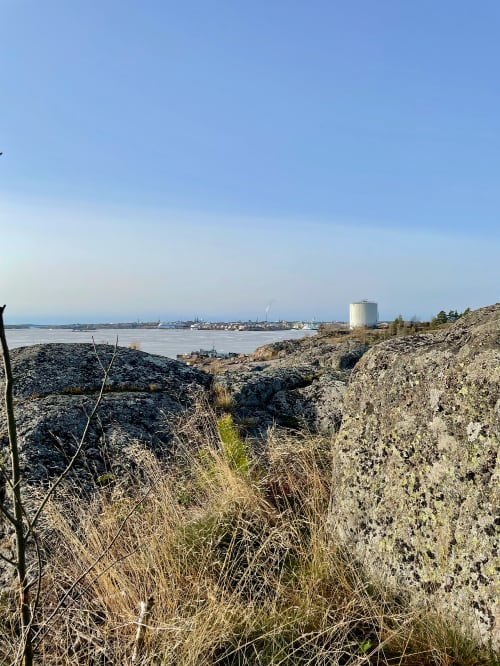
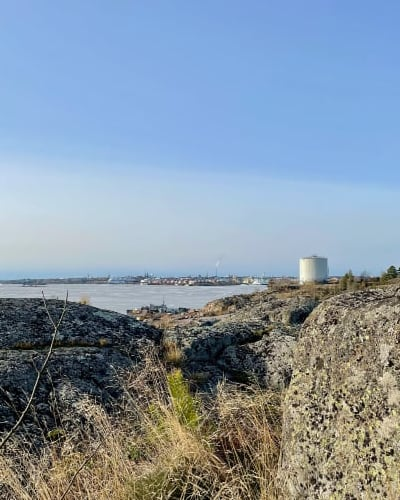
Initial commit

diff --git a/harkka/styles/layout.css b/harkka/styles/layout.css
@@ -97,18 +97,17 @@ nav .active {
 }
 .hero  {
   max-width: 960px;
-  margin: 0 auto 30px;
+  margin: 0 auto 0px;
 }
 
 .herocontainer {
   grid-column: span 1;
-  padding: 10rem 0 0 8rem;
+  padding: 27% 0 0 10%;
 }
 .heroimg {
   grid-column: span 1;
-  padding: 4rem 0 0 4rem;
+  padding: 10% 0 0 10%;
   width: 75%;
-  height: 75%;
   object-fit: cover;
 }
 /* projects */
@@ -317,7 +316,7 @@ main {
   max-width: 60%;
 }
 .projectheading {
-  margin: 5em 0 1em 0;
+  margin: 4em 0 1em 0;
 }
 }
 
@@ -344,10 +343,10 @@ main {
   grid-template-columns: repeat(auto-fill, minmax(270px, 1fr));
 }
 .herocontainer {
-  padding: 3rem 1rem 0 0rem;
+  padding: 10% 5% 0 0rem;
 }
 .heroimg {
-  padding: 2rem 0 0 1rem;
+  padding: 10% 0 0 10%;
   width: 75%;
   object-fit: cover;
 }

diff --git a/harkka/index.html b/harkka/index.html
@@ -16,7 +16,6 @@
     <li><a class="active" href="index.html">Home</a></li>
     <li><a href="projects.html"> Projects</a></li>
     <li><a href="resume.html">Resume</a></li>
-    <li><a href="#about">Contact</a></li>
 </ul>
 
 </nav>
@@ -25,7 +24,7 @@
     <div class="herocontainer">
             <h1>Hello</h1><p>My name is Tommi Hulkkonen. I'm a startup guy (product and business developer) located in Helsinki, Finland. Currently building Aatos Health and AMS Solutions. M.Sc in economics, spending free time practicing coding. </p>
     </div>
-    <div class="right"><img src="images/sailio.jpg" alt="Oil tank" class="heroimg"></div>
+    <div><img src="images/sailio.jpg" alt="Oil tank" class="heroimg"></div>
 </section>
 <section>
 <section class="projectheading">

diff --git a/harkka/projects.html b/harkka/projects.html
@@ -16,7 +16,6 @@
     <li><a href="index.html">Home</a></li>
     <li><a class="active" href="projects.html"> Projects</a></li>
     <li><a href="resume.html">Resume</a></li>
-    <li><a href="#about">Contact</a></li>
 </ul>
 
 </nav>

diff --git a/harkka/resume.html b/harkka/resume.html
@@ -16,7 +16,6 @@
     <li><a href="index.html">Home</a></li>
     <li><a href="projects.html"> Projects</a></li>
     <li><a class="active" href="resume.html">Resume</a></li>
-    <li><a href="#about">Contact</a></li>
 </ul>
 
 </nav>
